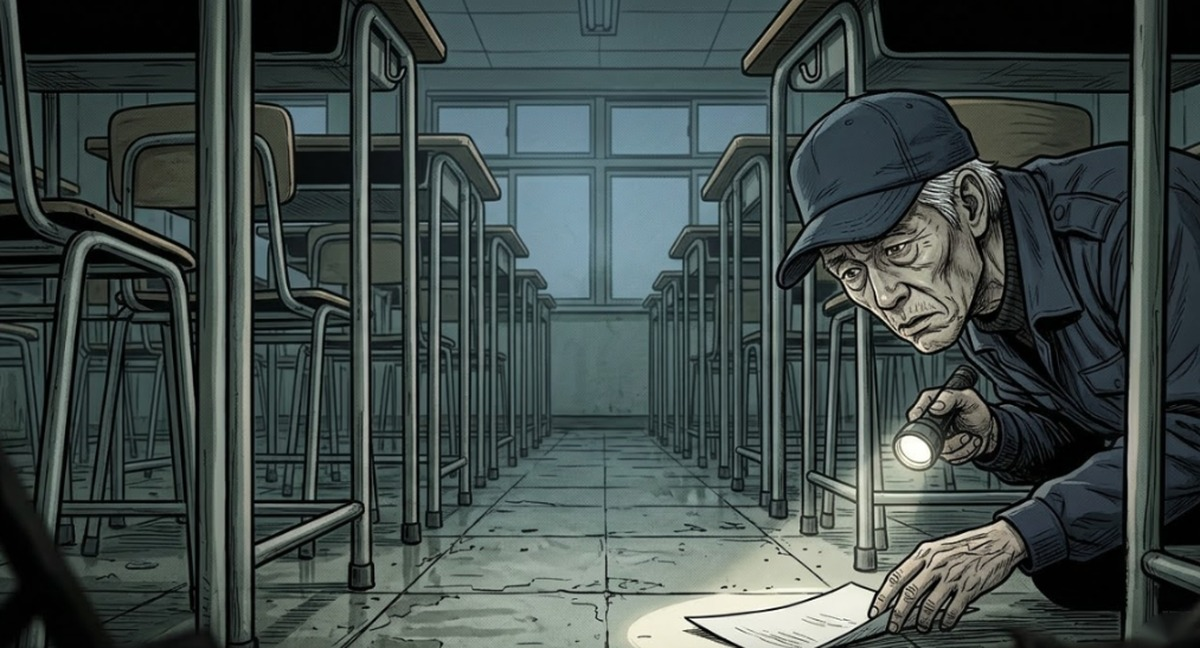
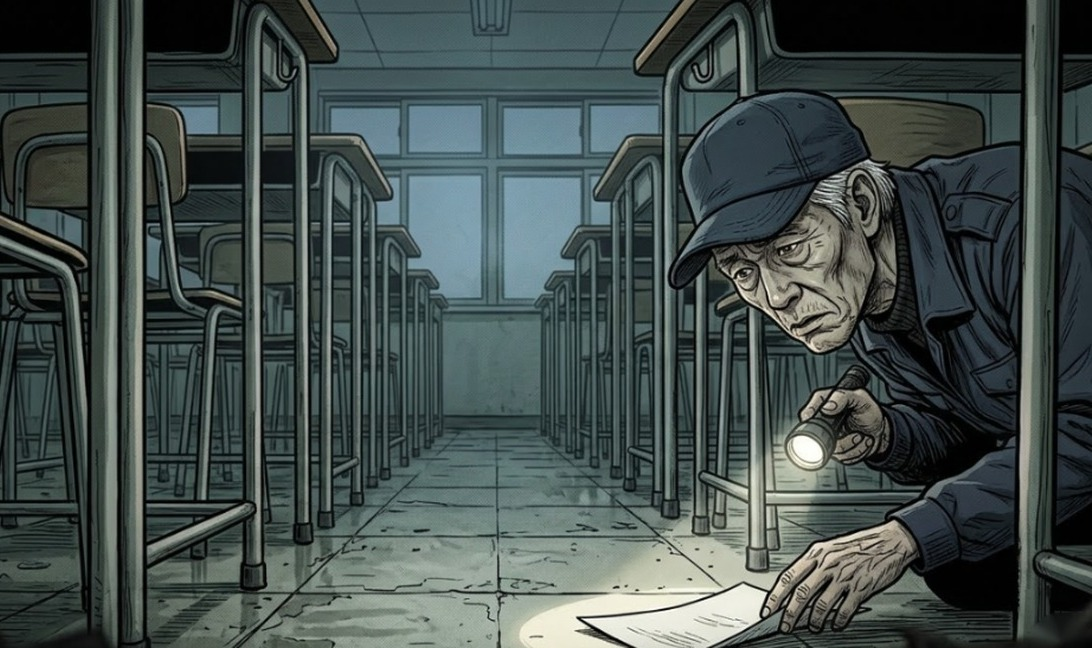
ep02: crop repeated dark foreground wedge from a13/a13a; rewrite director's note
Claude-Session: https://claude.ai/code/session_018twa3QMQYz3PY4RAJxVLUb

diff --git a/ep02/index.html b/ep02/index.html
@@ -308,7 +308,7 @@ html.mo .snd{animation:mo-fade 1s ease-out 1.2s backwards}
   <div class="gap" style="height:clamp(120px,22vw,190px)">그릇은 연구소에. 열쇠는 지갑 속에. 남은 건 기록 한 장.</div>
   <div class="p"><img src="n10.jpg" alt="정근 손의 열쇠 꾸러미. 빨간 꼬리표가 달린 열쇠 하나"></div><div class="easy-cap">지하 2층 · 기록<br>보관실 · 야간 순찰 열쇠</div>
   <div class="rec doc">교육 자료 회수 결과<br>1부 누락 · 마지막 순찰: 오정근</div>
-  <section class="endcard" aria-label="이 화를 마치며" data-slug="ep02" data-no="2" data-title="매뉴얼"><div class="dn"><b>감독의 말</b><p>강의실은 일부러 밝고 지루하게 그렸습니다. 끔찍한 기술이 가장 평범한 말투로 설명되는 장면입니다. 웃는 얼굴들 사이에서 혼자 웃지 않는 한 사람을 봐 주세요.</p></div><nav class="ec-nav"><a href="../index.html#timeline">목록</a><a href="../ep03/index.html">다음 화 〈사살 권한〉 →</a></nav><div class="rv" id="rv"><h3>별점 · 한 줄 후기</h3><div class="rvavg"></div><form class="rvf"><div class="stars" role="radiogroup" aria-label="별점"><span class="sh">한 번 더 누르면 반 개 · 별점만 남겨도 돼요</span><button type="button" data-v="1" aria-label="별 1개">★</button><button type="button" data-v="2" aria-label="별 2개">★</button><button type="button" data-v="3" aria-label="별 3개">★</button><button type="button" data-v="4" aria-label="별 4개">★</button><button type="button" data-v="5" aria-label="별 5개">★</button></div><input name="n" maxlength="12" placeholder="이름 (비워 두면 익명)" autocomplete="nickname"><input name="pw" type="password" maxlength="20" placeholder="비밀번호 4자 이상 (수정·삭제용, 선택)" autocomplete="new-password"><textarea name="t" maxlength="200" rows="2" placeholder="이 화, 어떠셨나요? (190자까지)" required></textarea><button type="submit">남기기</button></form><ul class="rvl" aria-live="polite"></ul></div></section>
+  <section class="endcard" aria-label="이 화를 마치며" data-slug="ep02" data-no="2" data-title="매뉴얼"><div class="dn"><b>감독의 말</b><p>우리가 알지도 못하고, 어디인지도 모르는 어느 곳에서 상상도 할 수 없는 일들이 벌어지고 있지 않을까요? 그런 느낌에서 시작한 화입니다. 죽은 사람을 어떻게 되살리는지 보여 주는, 보충 설명의 화이기도 합니다.</p></div><nav class="ec-nav"><a href="../index.html#timeline">목록</a><a href="../ep03/index.html">다음 화 〈사살 권한〉 →</a></nav><div class="rv" id="rv"><h3>별점 · 한 줄 후기</h3><div class="rvavg"></div><form class="rvf"><div class="stars" role="radiogroup" aria-label="별점"><span class="sh">한 번 더 누르면 반 개 · 별점만 남겨도 돼요</span><button type="button" data-v="1" aria-label="별 1개">★</button><button type="button" data-v="2" aria-label="별 2개">★</button><button type="button" data-v="3" aria-label="별 3개">★</button><button type="button" data-v="4" aria-label="별 4개">★</button><button type="button" data-v="5" aria-label="별 5개">★</button></div><input name="n" maxlength="12" placeholder="이름 (비워 두면 익명)" autocomplete="nickname"><input name="pw" type="password" maxlength="20" placeholder="비밀번호 4자 이상 (수정·삭제용, 선택)" autocomplete="new-password"><textarea name="t" maxlength="200" rows="2" placeholder="이 화, 어떠셨나요? (190자까지)" required></textarea><button type="submit">남기기</button></form><ul class="rvl" aria-live="polite"></ul></div></section>
   </main>
 <footer class="sitefoot"><b>A KIMJUNGSOO FILM</b><span>각본·연출 김정수 · 작가 김예선 · 골디락스존 세계관 웹툰 1부 · <a href="../credits.html">크레딧</a> · <a href="../lexicon.html">세계관 사전</a><span class="sns"><a href="https://www.youtube.com/@akimjungsoofilm" target="_blank" rel="noopener" aria-label="김정수필름 유튜브"><svg viewBox="0 0 24 24" width="17" height="17" aria-hidden="true"><rect x="2" y="5" width="20" height="14" rx="4" fill="currentColor"/><path d="M10 9l5 3-5 3z" fill="#0b0c0d"/></svg></a><a href="https://www.instagram.com/a_kimjungsoo_film/" target="_blank" rel="noopener" aria-label="김정수필름 인스타그램"><svg viewBox="0 0 24 24" width="16" height="16" aria-hidden="true"><rect x="3" y="3" width="18" height="18" rx="5" fill="none" stroke="currentColor" stroke-width="2"/><circle cx="12" cy="12" r="4" fill="none" stroke="currentColor" stroke-width="2"/><circle cx="17.5" cy="6.5" r="1.2" fill="currentColor"/></svg></a></span></span></footer>
 <script>(function(){
